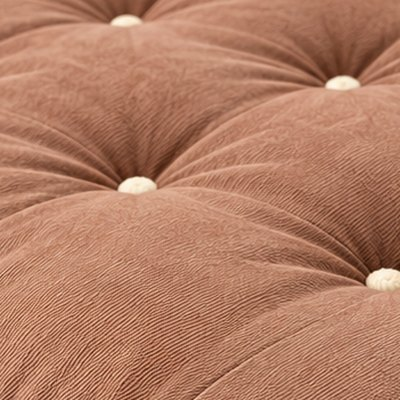
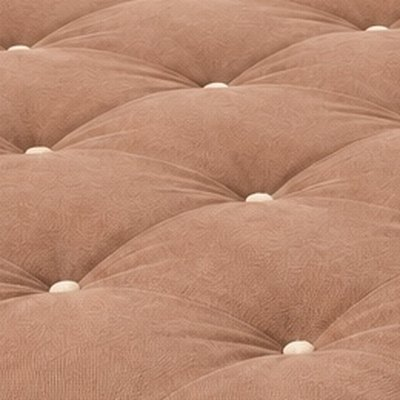
Mattress: four colors with studio shots; Coming soon button (#19)
* Mattress: Coming soon in place of Add to cart

The Shopify product and variant checkout aren't set up yet, so the buy
button is disabled. Set available: true in lib/mattress.ts to restore it.

Claude-Session: https://claude.ai/code/session_01BdupDbY4vAUPMLYs1EoME5

* Mattress in four colors with studio shots

Khaki, Safari, Mocha Mousse and Morning Dove (now ivory). Each color
leads the gallery with its studio shot, then its room shot where there
is one, then the cutaway. Swatches are cropped from the studio shots.

Claude-Session: https://claude.ai/code/session_01BdupDbY4vAUPMLYs1EoME5

---------

diff --git a/lib/mattress.ts b/lib/mattress.ts
@@ -12,7 +12,8 @@ export const LIVING_WOOL_PATH = "/pages/living-wool";
 export const GUARANTEE_PATH = "/pages/guarantee-warranty";
 
 export type MattressSize = { id: string; label: string; dims: string; price: number };
-export type MattressColor = { id: string; label: string; swatch: PhotoKey; photo?: PhotoKey; alt: string };
+/** studio: the product shot that leads the gallery; photo: a room shot, where one exists. */
+export type MattressColor = { id: string; label: string; swatch: PhotoKey; studio: PhotoKey; photo?: PhotoKey; alt: string };
 
 export const MATTRESS = {
   id: "natural-mattress",
@@ -40,13 +41,16 @@ export const MATTRESS = {
     { id: "firm", label: "Firm" },
   ],
 
-  /** Same price for every color. Names are editable ("Mocha Mousse" may be renamed). */
+  /** Same price for every color, in this order on the page. Names are editable ("Mocha Mousse" may be renamed). */
   colors: [
-    { id: "mocha", label: "Mocha Mousse", swatch: "mattress-swatch-mocha", photo: "mattress-mocha-room", alt: "The Ashwick Natural Mattress in Mocha Mousse on a walnut platform" },
-    { id: "safari", label: "Safari", swatch: "mattress-swatch-safari", photo: "mattress-safari-room", alt: "The Ashwick Natural Mattress in Safari on a light oak platform" },
-    { id: "dove", label: "Morning Dove", swatch: "mattress-swatch-dove", alt: "The Ashwick Natural Mattress in Morning Dove" },
+    { id: "khaki", label: "Khaki", swatch: "mattress-swatch-khaki", studio: "mattress-studio-khaki", alt: "The Ashwick Natural Mattress in Khaki" },
+    { id: "safari", label: "Safari", swatch: "mattress-swatch-safari", studio: "mattress-studio-safari", photo: "mattress-safari-room", alt: "The Ashwick Natural Mattress in Safari" },
+    { id: "mocha", label: "Mocha Mousse", swatch: "mattress-swatch-mocha", studio: "mattress-studio-mocha", photo: "mattress-mocha-room", alt: "The Ashwick Natural Mattress in Mocha Mousse" },
+    { id: "dove", label: "Morning Dove", swatch: "mattress-swatch-dove", studio: "mattress-studio-dove", alt: "The Ashwick Natural Mattress in Morning Dove" },
   ] satisfies MattressColor[],
 
+  /** false shows "Coming soon" in place of Add to cart (until the Shopify product and checkout are set up). */
+  available: false,
   leadTime: "Made to order. Ships in 1–2 weeks.",
   shipping: "Free shipping.",
   guarantee: "30-night money-back guarantee",

diff --git a/components/mattress-view.tsx b/components/mattress-view.tsx
@@ -52,8 +52,8 @@ export function MattressView() {
 
   const sel = colorById(color);
   const sz = sizeById(size);
-  // The color's room photo (or a placeholder until one exists), then the construction.
-  const gallery: (PhotoKey | undefined)[] = [sel.photo, "mattress-cutaway"];
+  // The color's product shot, its room shot where there is one, then the construction.
+  const gallery: PhotoKey[] = [sel.studio, ...(sel.photo ? [sel.photo] : []), "mattress-cutaway"];
   const setColor = (c: string) => {
     setColorState(c);
     setImg(0);
@@ -64,7 +64,7 @@ export function MattressView() {
     cart.add({
       id: M.id,
       name: M.title,
-      photo: sel.photo ?? sel.swatch,
+      photo: sel.studio,
       price: sz.price,
       qty: 1,
       mode: "As designed",
@@ -76,13 +76,13 @@ export function MattressView() {
       <div className="gal">
         <div className="gal-main">
           <div className="gal-photo">
-            <Photo src={gallery[img]} label={img === 0 ? `${M.title} in ${sel.label}` : `${M.title}: the layers inside`} sizes="(max-width: 960px) 100vw, 56vw" preload />
+            <Photo src={gallery[img]} label={gallery[img] === "mattress-cutaway" ? `${M.title}: the layers inside` : sel.alt} sizes="(max-width: 960px) 100vw, 56vw" preload />
           </div>
         </div>
         <div className="gal-thumbs">
           {gallery.map((ph, i) => (
             <button key={i} className={i === img ? "on" : ""} aria-label={"Image " + (i + 1)} aria-pressed={i === img} onClick={() => setImg(i)}>
-              <Photo src={ph ?? sel.swatch} label="" sizes="84px" />
+              <Photo src={ph} label="" sizes="84px" />
             </button>
           ))}
         </div>
@@ -120,7 +120,11 @@ export function MattressView() {
         </div>
 
         <div className="designed">
-          <button className="btn full" onClick={add}>Add to cart · {fmt(sz.price)}</button>
+          {M.available ? (
+            <button className="btn full" onClick={add}>Add to cart · {fmt(sz.price)}</button>
+          ) : (
+            <button className="btn full" disabled aria-disabled="true">Coming soon</button>
+          )}
           <ul className="buy-notes">
             <li>{M.leadTime}</li>
             <li>{M.shipping} {M.guarantee}.</li>

diff --git a/app/globals.css b/app/globals.css
@@ -113,7 +113,7 @@ button.chip{cursor:pointer}
 .info>.ulink{margin:22px 28px 0 0}
 .linkbtn.ulink{border-width:0 0 1px;border-style:solid;border-color:currentColor;letter-spacing:.26em;text-transform:uppercase;font:500 11px var(--sans);padding-bottom:5px}
 .info .custom-req{margin-top:20px}
-.m-colors{margin-top:64px}
+.m-colors{margin-top:64px;display:grid;grid-template-columns:repeat(4,minmax(0,1fr));gap:32px}
 .m-color{margin:0}
 .m-color-img{position:relative;aspect-ratio:1/1;overflow:hidden;background:var(--alabaster)}
 .m-color-img img{width:100%;height:100%;object-fit:cover}
@@ -329,6 +329,7 @@ button.chip{cursor:pointer}
 .form-error{margin:0;font:400 14px/1.6 var(--sans);color:#8A3B2B}
 .nl-form+.form-error{margin-top:16px}
 .btn:disabled{opacity:.6;cursor:wait}
+.btn:disabled[aria-disabled="true"]{cursor:default}
 .swatch-order{display:flex;flex-direction:column;gap:40px}
 .sw-group{border:0;border-top:1px solid var(--hair);margin:0;padding:24px 0 0;display:flex;flex-direction:column;gap:12px}
 .sw-group legend{padding:0;margin-bottom:6px}
@@ -425,6 +426,7 @@ button.chip{cursor:pointer}
   .proc.txt{padding-top:40px}
   .offer-grid{grid-template-columns:minmax(0,1fr) minmax(0,1fr);gap:28px 20px}
   .layers{grid-template-columns:minmax(0,1fr)}
+  .m-colors{grid-template-columns:repeat(2,minmax(0,1fr));gap:24px 16px}
   .deflist div{grid-template-columns:minmax(0,1fr);gap:6px}
   .terms{columns:1}
   .tsteps{grid-template-columns:minmax(0,1fr);gap:32px}

diff --git a/lib/photos.ts b/lib/photos.ts
@@ -37,6 +37,11 @@ import mattressCutaway from "@/assets/photos/mattress-cutaway.jpg";
 import mattressSwatchMocha from "@/assets/photos/mattress-swatch-mocha.jpg";
 import mattressSwatchSafari from "@/assets/photos/mattress-swatch-safari.jpg";
 import mattressSwatchDove from "@/assets/photos/mattress-swatch-dove.jpg";
+import mattressStudioKhaki from "@/assets/photos/mattress-studio-khaki.jpg";
+import mattressStudioSafari from "@/assets/photos/mattress-studio-safari.jpg";
+import mattressStudioMocha from "@/assets/photos/mattress-studio-mocha.jpg";
+import mattressStudioDove from "@/assets/photos/mattress-studio-dove.jpg";
+import mattressSwatchKhaki from "@/assets/photos/mattress-swatch-khaki.jpg";
 import pembroke1 from "@/assets/photos/pembroke-1.jpg";
 import pembroke2 from "@/assets/photos/pembroke-2.jpg";
 import pembrokeBlendDove from "@/assets/photos/pembroke-blend-dove.jpg";
@@ -86,6 +91,11 @@ export const PHOTOS = {
   "mattress-swatch-mocha": mattressSwatchMocha,
   "mattress-swatch-safari": mattressSwatchSafari,
   "mattress-swatch-dove": mattressSwatchDove,
+  "mattress-studio-khaki": mattressStudioKhaki,
+  "mattress-studio-safari": mattressStudioSafari,
+  "mattress-studio-mocha": mattressStudioMocha,
+  "mattress-studio-dove": mattressStudioDove,
+  "mattress-swatch-khaki": mattressSwatchKhaki,
   "pembroke-1": pembroke1,
   "pembroke-2": pembroke2,
   "pembroke-blend-ivory": pembrokeBlendIvory,

diff --git a/app/products/natural-mattress/page.tsx b/app/products/natural-mattress/page.tsx
@@ -8,6 +8,7 @@ import { PHOTOS } from "@/lib/photos";
 import { fmt } from "@/lib/products";
 
 const M = MATTRESS;
+const COUNT: Record<number, string> = { 2: "two", 3: "three", 4: "four", 5: "five", 6: "six" };
 
 export const metadata: Metadata = {
   title: M.title,
@@ -80,10 +81,10 @@ export default function MattressPage() {
           <div className="center-head">
             <h2 className="h2">Your bed, in color.</h2>
             <p className="body" style={{ marginTop: 24 }}>
-              Natural mattresses are almost always white. Ours comes in three colors, made to be seen: {M.colors.map((c) => c.label).join(", ").replace(/, ([^,]*)$/, " and $1")}.
+              Natural mattresses are almost always white. Ours comes in {COUNT[M.colors.length] ?? M.colors.length} colors, made to be seen: {M.colors.map((c) => c.label).join(", ").replace(/, ([^,]*)$/, " and $1")}.
             </p>
           </div>
-          <div className="grid3 m-colors">
+          <div className="m-colors">
             {M.colors.map((c) => (
               <figure className="m-color" key={c.id}>
                 <div className="m-color-img"><Photo src={c.swatch} label={`${c.label} fabric, hand-tufted`} sizes="(max-width: 960px) 100vw, 33vw" /></div>
